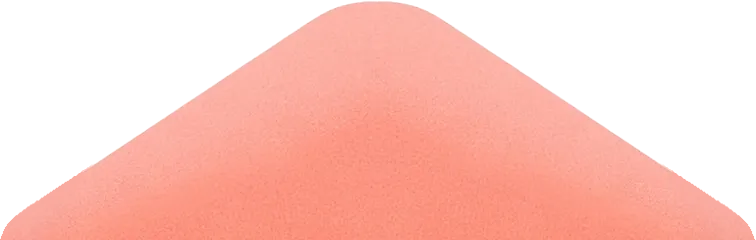
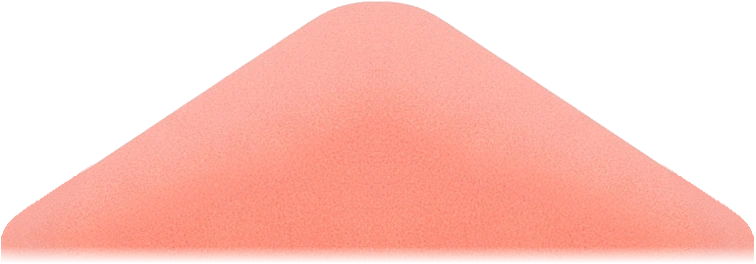
새가족: 편지 봉투 열린 덮개와 뒷면 경계선 및 좌우 모서리 이음새 보정

diff --git a/src/pages/WelcomePage.module.css b/src/pages/WelcomePage.module.css
@@ -160,7 +160,8 @@
 }
 
 .envFlapOpen {
-    transform-origin: 50% 100%;
+    /* 아래로 24px 연장한 이음새 치마(240 / 264)를 제외한 실제 접히는 선을 회전축으로 고정 */
+    transform-origin: 50% 90.909%;
     transform: rotateX(90deg);
     opacity: 0;
     transition: transform 0.28s var(--fold-in) 0.2s, opacity 0s linear 0.48s;
